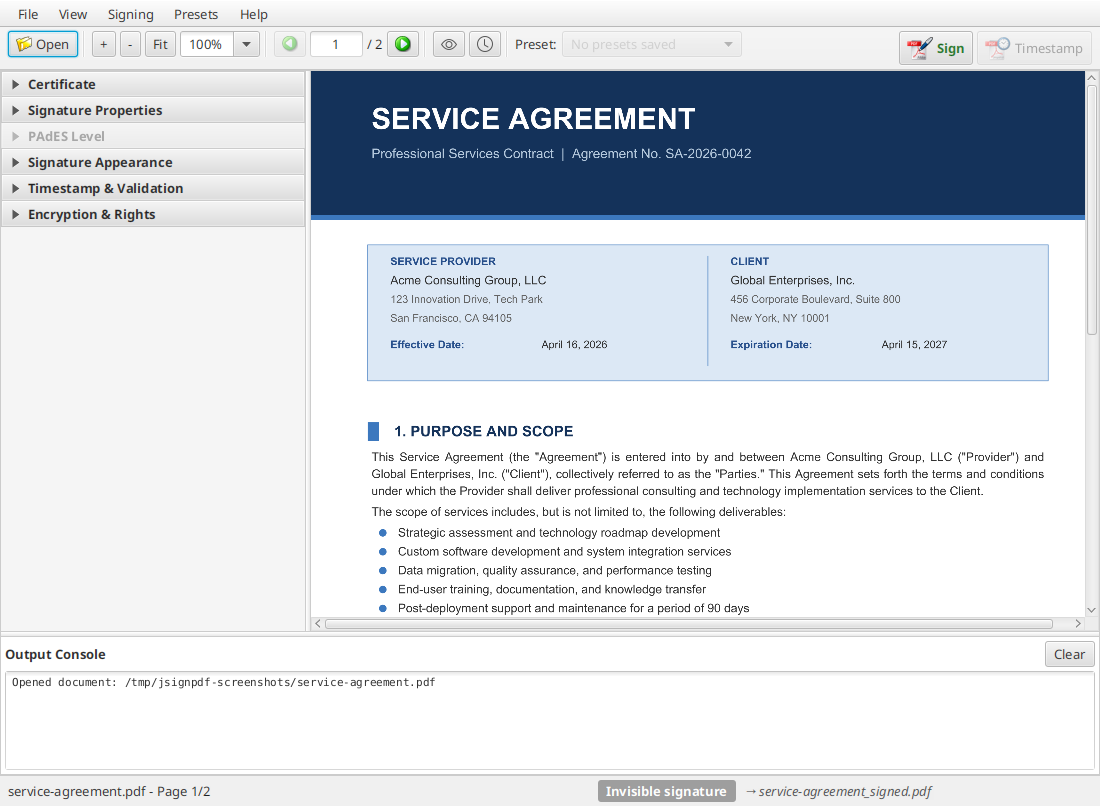
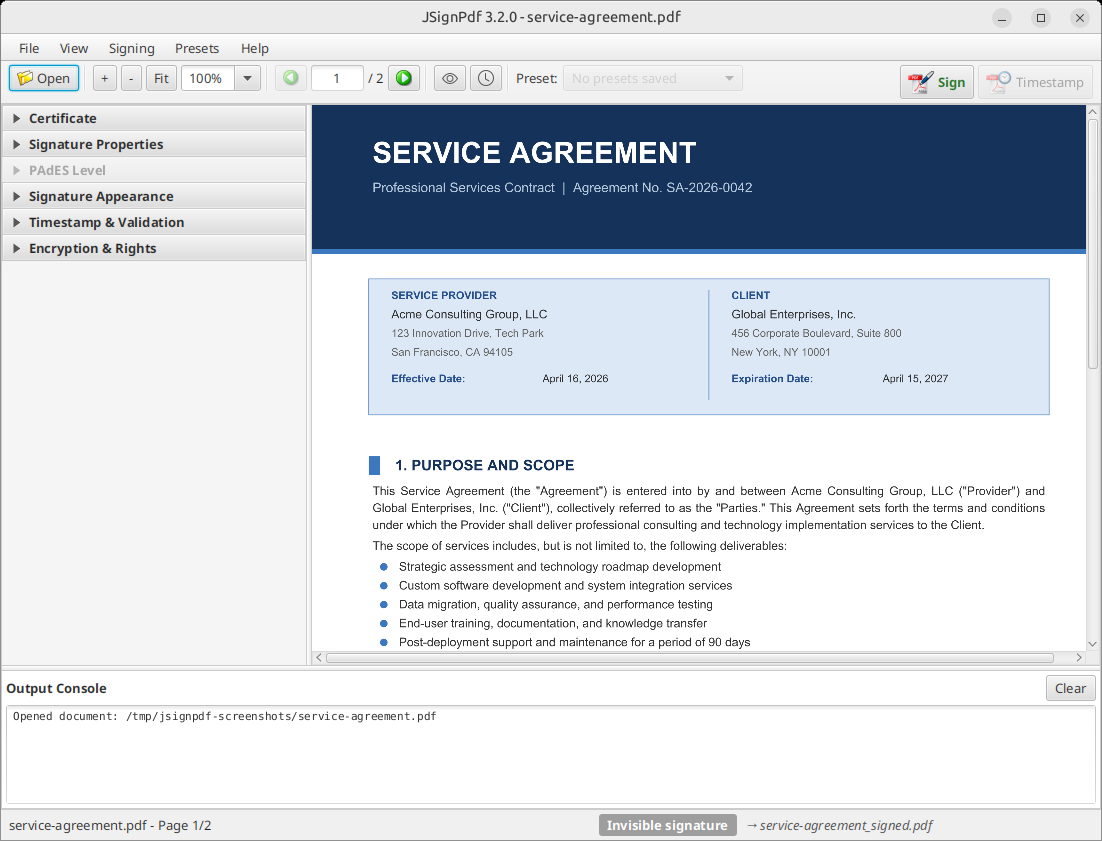
Add translations gallery and refresh JavaFX screenshots
- Screenshots page: main window in all 20 bundled languages
- Regenerated guide and website JavaFX images

Changed region(s): [[0.0, 0.0, 1.0, 0.4963], [0.0, 0.5273, 1.0, 1.0]]

diff --git a/website/content/screenshots/_index.md b/website/content/screenshots/_index.md
@@ -27,6 +27,93 @@ A look at the JSignPdf desktop UI. Click any image to see it full-size.
       subtitle="Shift-drag on the document preview to position the visible signature block." >}}
 {{< /cards >}}
 
+## Translations
+
+The JavaFX interface in each of its 20 bundled languages. It follows the operating-system language by default; pick another one under _File > Preferences > General > Language_. Translations are maintained on [Weblate](https://hosted.weblate.org/projects/jsignpdf/messages/) — help is welcome.
+
+{{< cards cols="4" >}}
+  {{< card
+      link="../img/screenshots/locales/main-window-en.png"
+      title="English"
+      image="/img/screenshots/locales/main-window-en.png" >}}
+  {{< card
+      link="../img/screenshots/locales/main-window-cs.png"
+      title="čeština (Czech)"
+      image="/img/screenshots/locales/main-window-cs.png" >}}
+  {{< card
+      link="../img/screenshots/locales/main-window-de.png"
+      title="Deutsch (German)"
+      image="/img/screenshots/locales/main-window-de.png" >}}
+  {{< card
+      link="../img/screenshots/locales/main-window-el.png"
+      title="Ελληνικά (Greek)"
+      image="/img/screenshots/locales/main-window-el.png" >}}
+  {{< card
+      link="../img/screenshots/locales/main-window-es.png"
+      title="español (Spanish)"
+      image="/img/screenshots/locales/main-window-es.png" >}}
+  {{< card
+      link="../img/screenshots/locales/main-window-fr.png"
+      title="français (French)"
+      image="/img/screenshots/locales/main-window-fr.png" >}}
+  {{< card
+      link="../img/screenshots/locales/main-window-hr.png"
+      title="hrvatski (Croatian)"
+      image="/img/screenshots/locales/main-window-hr.png" >}}
+  {{< card
+      link="../img/screenshots/locales/main-window-hu.png"
+      title="magyar (Hungarian)"
+      image="/img/screenshots/locales/main-window-hu.png" >}}
+  {{< card
+      link="../img/screenshots/locales/main-window-hy.png"
+      title="հայերեն (Armenian)"
+      image="/img/screenshots/locales/main-window-hy.png" >}}
+  {{< card
+      link="../img/screenshots/locales/main-window-it.png"
+      title="italiano (Italian)"
+      image="/img/screenshots/locales/main-window-it.png" >}}
+  {{< card
+      link="../img/screenshots/locales/main-window-ja.png"
+      title="日本語 (Japanese)"
+      image="/img/screenshots/locales/main-window-ja.png" >}}
+  {{< card
+      link="../img/screenshots/locales/main-window-nb.png"
+      title="norsk bokmål (Norwegian Bokmål)"
+      image="/img/screenshots/locales/main-window-nb.png" >}}
+  {{< card
+      link="../img/screenshots/locales/main-window-pl.png"
+      title="polski (Polish)"
+      image="/img/screenshots/locales/main-window-pl.png" >}}
+  {{< card
+      link="../img/screenshots/locales/main-window-pt.png"
+      title="português (Portuguese)"
+      image="/img/screenshots/locales/main-window-pt.png" >}}
+  {{< card
+      link="../img/screenshots/locales/main-window-pt-BR.png"
+      title="português (Brasil) – Portuguese (Brazil)"
+      image="/img/screenshots/locales/main-window-pt-BR.png" >}}
+  {{< card
+      link="../img/screenshots/locales/main-window-ru.png"
+      title="русский (Russian)"
+      image="/img/screenshots/locales/main-window-ru.png" >}}
+  {{< card
+      link="../img/screenshots/locales/main-window-sk.png"
+      title="slovenčina (Slovak)"
+      image="/img/screenshots/locales/main-window-sk.png" >}}
+  {{< card
+      link="../img/screenshots/locales/main-window-ta.png"
+      title="தமிழ் (Tamil)"
+      image="/img/screenshots/locales/main-window-ta.png" >}}
+  {{< card
+      link="../img/screenshots/locales/main-window-zh-CN.png"
+      title="中文 (中国) – Chinese (China)"
+      image="/img/screenshots/locales/main-window-zh-CN.png" >}}
+  {{< card
+      link="../img/screenshots/locales/main-window-zh-TW.png"
+      title="中文 (台灣) – Chinese (Taiwan)"
+      image="/img/screenshots/locales/main-window-zh-TW.png" >}}
+{{< /cards >}}
+
 ## Classic Swing interface
 
 The original GUI, available via `-Djsignpdf.swing=true`.
